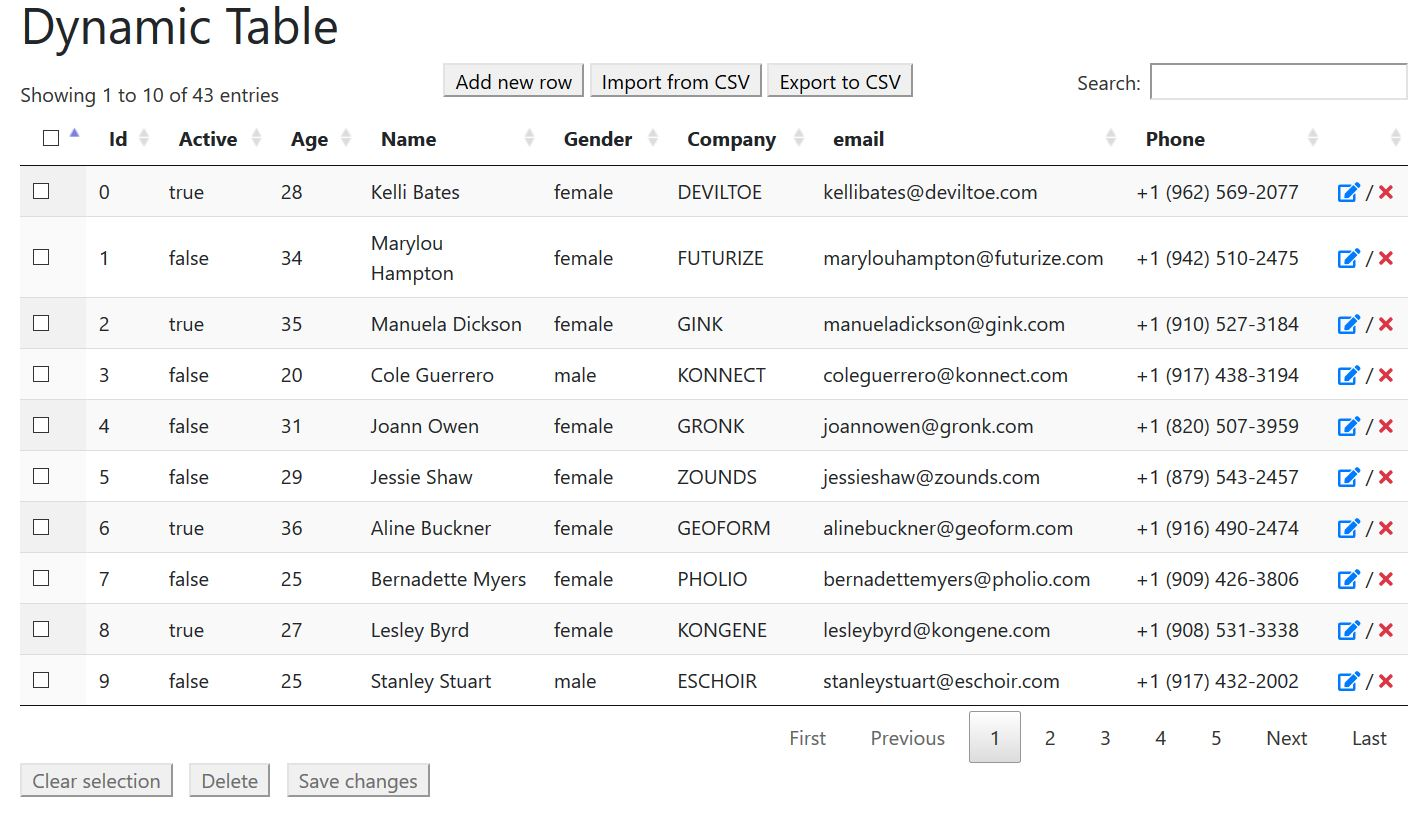
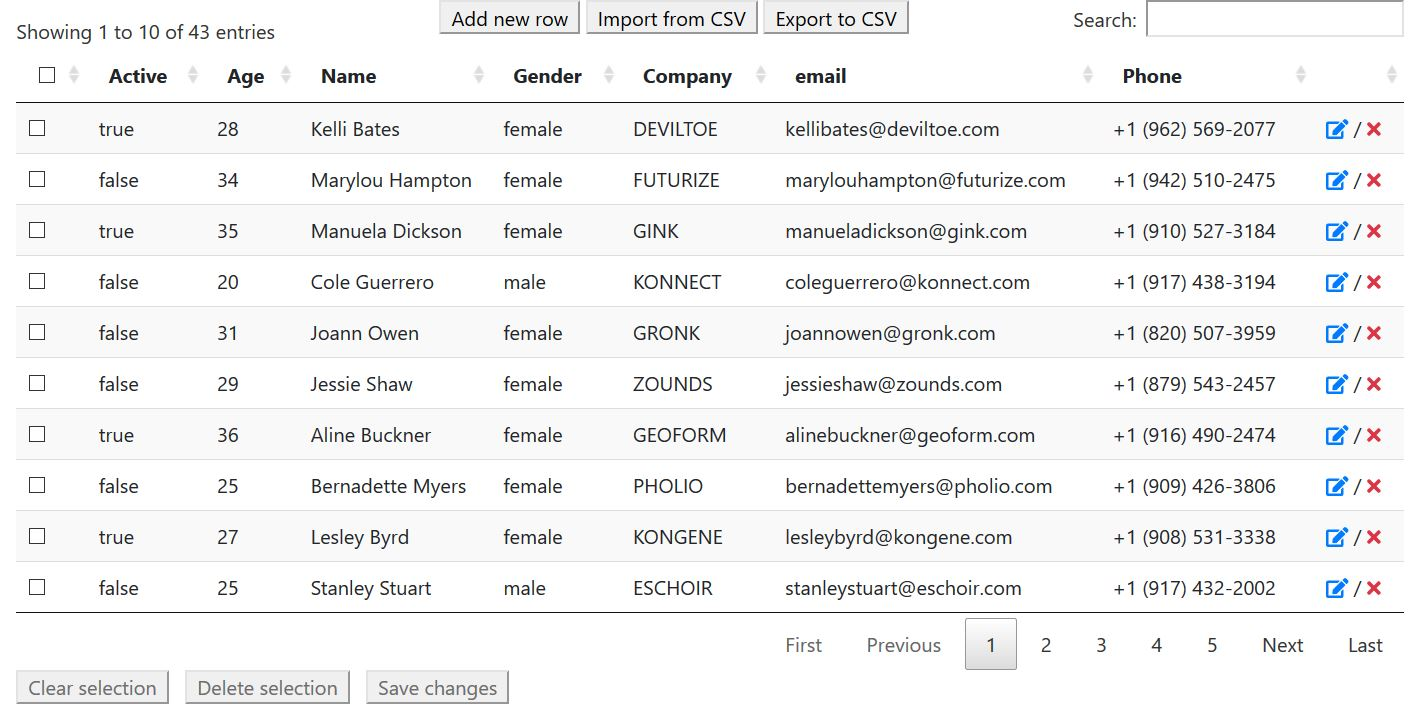
add switch to edition mode

diff --git a/getHtml.php b/getHtml.php
@@ -6,19 +6,32 @@ $response = array(
 	'data' => ''
 );
 
-// TODO: get newt auto-increment index to be added in DB
+$values = [];
+$id = -1;
+
+if (isset($_POST['data'])) {
+	$data = $_POST['data'];
+	for ($i=1; $i < count($data); $i++) {
+		$values[] = $data[$i];
+	}
+
+	$active = ($values[1] === 'true') ? true : false;
+	$gender = ($values[4] == 'female') ? 'female' : 'male';
+	$id = $values[0];
+}
+
 
 $html = array(
 	'<input type="checkbox" class="slaveCheckbox">',
-	'x',
-	'<input type="text" name="active">',
-	'<input type="text" name="age">',
-	'<input type="text" name="name">',
-	'<input type="text" name="gender">',
-	'<input type="text" name="company">',
-	'<input type="text" name="email">',
-	'<input type="text" name="phone">',
-	'<i class="icon-link fa fa-save text-warning validateRowLink" title="Validate modifications"></i>'
+	$id,
+	'<select name="active"><option value="none"></option><option value="true" ' . (($active) ? 'selected' : '') . '>true</option><option value="false" ' . (($active) ? '' : 'selected') . '>false</option></select>',
+	'<input type="text" name="age" value="' . ((count($values) > 0) ?  $values[2] : '' ) . '">',
+	'<input type="text" name="name" value="' . ((count($values) > 0) ?  $values[3] : '' ) . '">',
+	'<select name="gender"><option value="none"></option><option value="female" ' . (($gender === 'female') ? 'selected' : '') . '>female</option><option value="male" ' . (($gender === 'male') ? 'selected' : '') . '>male</option></select>',
+	'<input type="text" name="company" value="' . ((count($values) > 0) ?  $values[5] : '' ) . '">',
+	'<input type="text" name="email" value="' . ((count($values) > 0) ?  $values[6] : '' ) . '">',
+	'<input type="text" name="phone" value="' . ((count($values) > 0) ?  $values[7] : '' ) . '">',
+	'<i class="icon-link fa fa-save text-warning validateRowLink" title="Validate modifications"></i>&nbsp;/&nbsp;<i class="icon-link fa fa-times text-danger deleteRowLink" title="Delete"></i></td>'
 );
 $response['data'] = $html;
 

diff --git a/index.php b/index.php
@@ -603,32 +603,21 @@
 		 * -------------------------------------------------------------------------------------------------------------
 		 */
 
-		// custom function to add new row at first position
-		$.fn.dataTable.Api.register('row.addFirstPos()', function(data) {
-			var context = this.context;
-
-			var currentPage = this.page();
-			this.row.add(data);
-			var rowCount = this.data().length - 1;
-			var insertedRow = this.row(rowCount).data();
-			var tempRow;
-
-			for (var i=rowCount; i>index; i--) {
-				tempRow = table.row(i-1).data();
-				this.row(i).data(tempRow);
-				this.row(i-1).data(insertedRow)
-			}
-
-			return this.page(currentPage).draw(false).node();
-		});
-
 		// DataTables options
 		var options = {
 			"pagingType": "full_numbers",
 			"lengthChange": false,
 			"pageLength": 10,
 			"dom": 'if <"#toolbar"> <"action">rt<"bottom"lp>',
-			"scrollX": true
+			"scrollX": true,
+			"order": [[ 1, "asc" ]],
+			"columnDefs": [
+				{
+					"targets": [ 1 ],
+					"visible": false,
+					"searchable": false
+				}
+			]
 		};
 
 		// init DataTable
@@ -735,7 +724,7 @@
 
 			$.ajax({
 				url: 'getHtml.php',
-				method: 'get',
+				method: 'post',
 				data: {},
 				dataType: 'json'
 			}).done(function(response) {
@@ -758,7 +747,20 @@
 		// edition mode
 		$(context).on('click', 'tbody .editRowLink', function (event) {
 			var row = $(this).parent('td').parent('tr');
-			console.log(table.row(row).data());
+			$.ajax({
+				url: 'getHtml.php',
+				method: 'post',
+				data: {data: table.row(row).data()},
+				dataType: 'json'
+			}).done(function(response) {
+				if (response.success) {
+					table.row(row).data(response.data).draw(false);
+				} else {
+					console.error(response.message);
+				}
+			}).fail(function(error) {
+				console.error(error);
+			});
 		});
 
 		/* -------------------------------------------------------------------------------------------------------------

diff --git a/Database.php b/Database.php
@@ -7,7 +7,7 @@ class Database
     private $_port = 3306;
     private $_dbname = 'lyre_datatable';
     private $_user = 'root';
-    private $_password = 'MySqlPassword';
+    private $_password = '';
     public $conn = null;
 
     public function __construct()

diff --git a/README.md b/README.md
@@ -13,4 +13,6 @@ Features :
 * inline row edition
 * add new row (inline)
 
+	* customisable new line HTML
+
 ![demo2](img/LyreDynamicTableJs_newrow.JPG)
